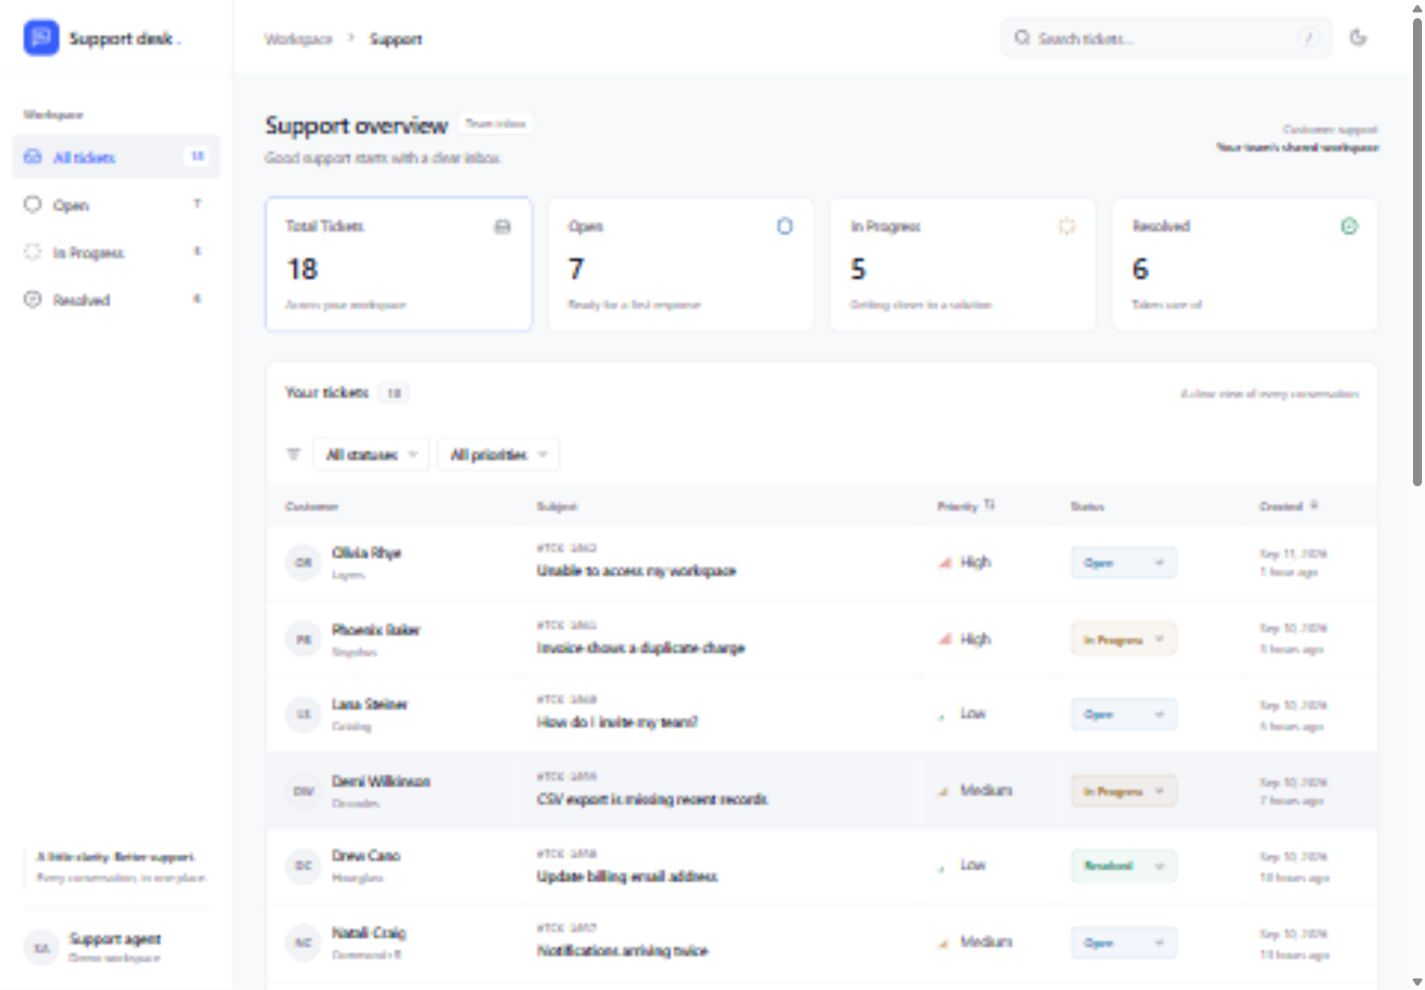
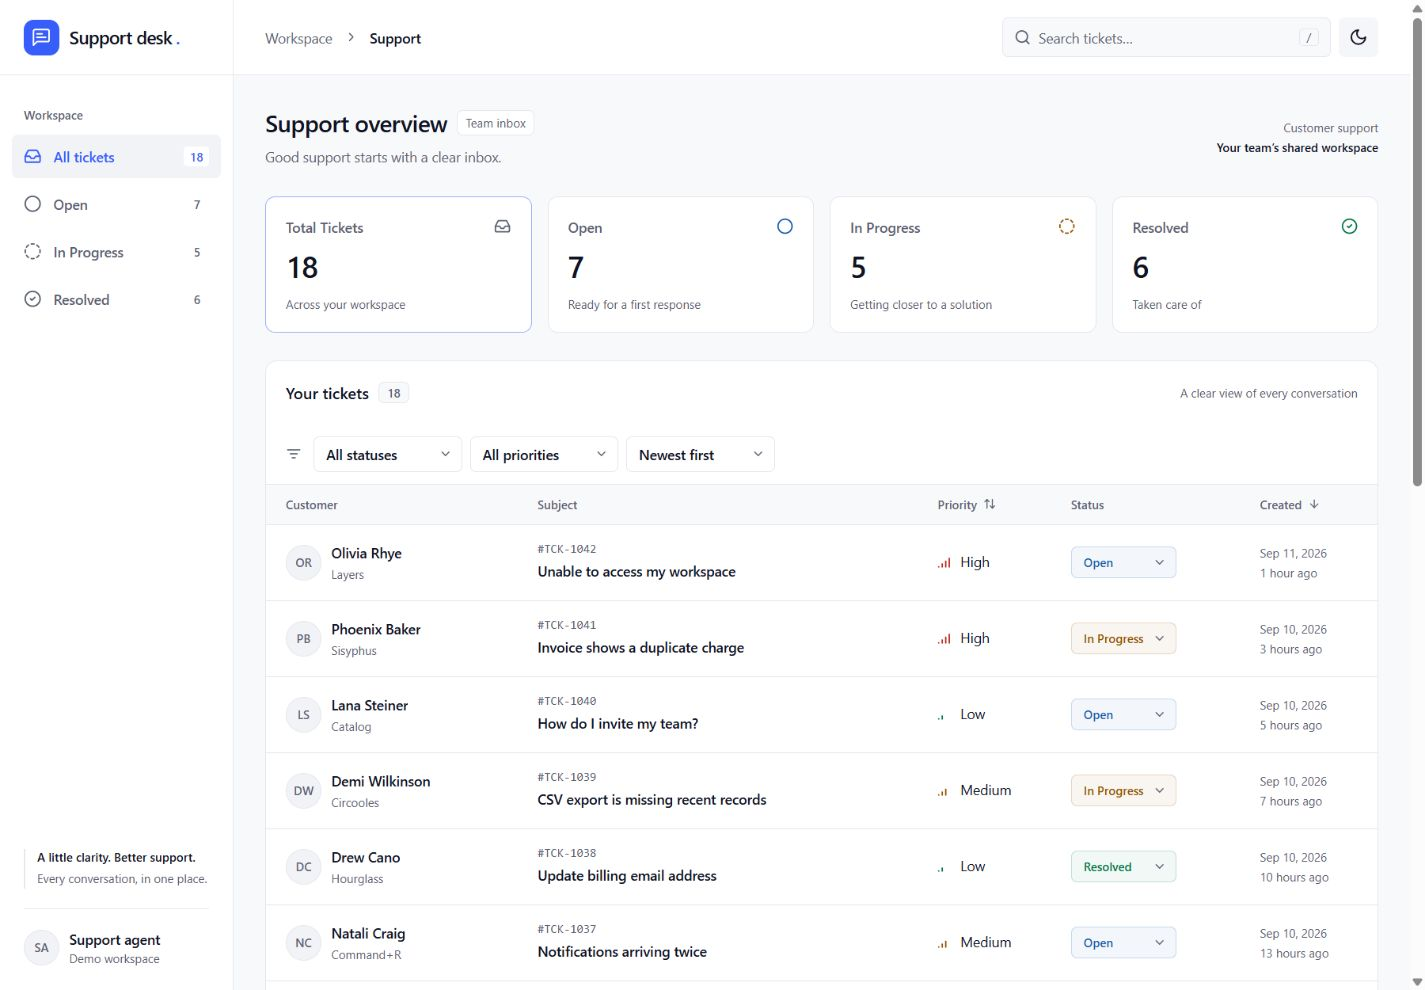
fix: align sorting control across responsive layouts

diff --git a/src/components/tickets/TicketFilters.tsx b/src/components/tickets/TicketFilters.tsx
@@ -15,7 +15,7 @@ export function TicketFilters() {
   const sortDirection = useTicketStore((state) => state.sortDirection);
   const setSort = useTicketStore((state) => state.setSort);
   return (
-    <div className="flex flex-wrap items-center gap-2 border-b border-border px-4 py-3 sm:px-5">
+    <div className="grid grid-cols-2 items-center gap-2 border-b border-border px-4 py-3 sm:flex sm:flex-wrap sm:px-5">
       <ListFilter
         size={16}
         aria-hidden="true"
@@ -23,6 +23,7 @@ export function TicketFilters() {
       />
       <Select
         aria-label="Filter by status"
+        containerClassName="w-full sm:w-[150px]"
         value={status}
         onChange={(event) => {
           const value = event.target.value;
@@ -36,6 +37,7 @@ export function TicketFilters() {
       </Select>
       <Select
         aria-label="Filter by priority"
+        containerClassName="w-full sm:w-[150px]"
         value={priority}
         onChange={(event) => {
           const value = event.target.value;
@@ -47,32 +49,34 @@ export function TicketFilters() {
           <option key={item}>{item}</option>
         ))}
       </Select>
+      <Select
+        aria-label="Sort tickets"
+        containerClassName="w-full sm:w-[150px]"
+        value={`${sortKey}:${sortDirection}`}
+        onChange={(event) => {
+          const [key, direction] = event.target.value.split(':');
+          if (
+            (key === 'priority' || key === 'createdAt') &&
+            (direction === 'asc' || direction === 'desc')
+          )
+            setSort(key, direction);
+        }}
+      >
+        <option value="createdAt:desc">Newest first</option>
+        <option value="createdAt:asc">Oldest first</option>
+        <option value="priority:desc">High priority</option>
+        <option value="priority:asc">Low priority</option>
+      </Select>
       {(status !== 'All' || priority !== 'All' || query) && (
-        <Button variant="ghost" onClick={clear} className="gap-1 px-2 text-xs">
+        <Button
+          variant="ghost"
+          onClick={clear}
+          className="justify-self-start gap-1 px-2 text-xs"
+        >
           <X size={14} />
           Clear filters
         </Button>
       )}
-      <div className="ml-auto flex items-center gap-1 xl:hidden">
-        <Select
-          aria-label="Sort tickets"
-          value={`${sortKey}:${sortDirection}`}
-          onChange={(event) => {
-            const [key, direction] = event.target.value.split(':');
-            if (
-              (key === 'priority' || key === 'createdAt') &&
-              (direction === 'asc' || direction === 'desc')
-            )
-              setSort(key, direction);
-          }}
-          className="text-xs"
-        >
-          <option value="createdAt:desc">Newest first</option>
-          <option value="createdAt:asc">Oldest first</option>
-          <option value="priority:desc">High priority first</option>
-          <option value="priority:asc">Low priority first</option>
-        </Select>
-      </div>
     </div>
   );
 }

diff --git a/src/components/ui/Select.tsx b/src/components/ui/Select.tsx
@@ -2,13 +2,18 @@ import { ChevronDown } from 'lucide-react';
 import type { SelectHTMLAttributes } from 'react';
 import { cn } from '../../lib/utils';
 
+interface SelectProps extends SelectHTMLAttributes<HTMLSelectElement> {
+  containerClassName?: string;
+}
+
 export function Select({
   className,
+  containerClassName,
   children,
   ...props
-}: SelectHTMLAttributes<HTMLSelectElement>) {
+}: SelectProps) {
   return (
-    <span className="relative inline-flex min-w-0">
+    <span className={cn('relative inline-flex min-w-0', containerClassName)}>
       <select
         className={cn(
           'min-h-9 w-full appearance-none rounded-md border border-border bg-surface py-1.5 pl-3 pr-8 text-sm font-medium text-primary transition-colors hover:bg-hover disabled:opacity-50',
